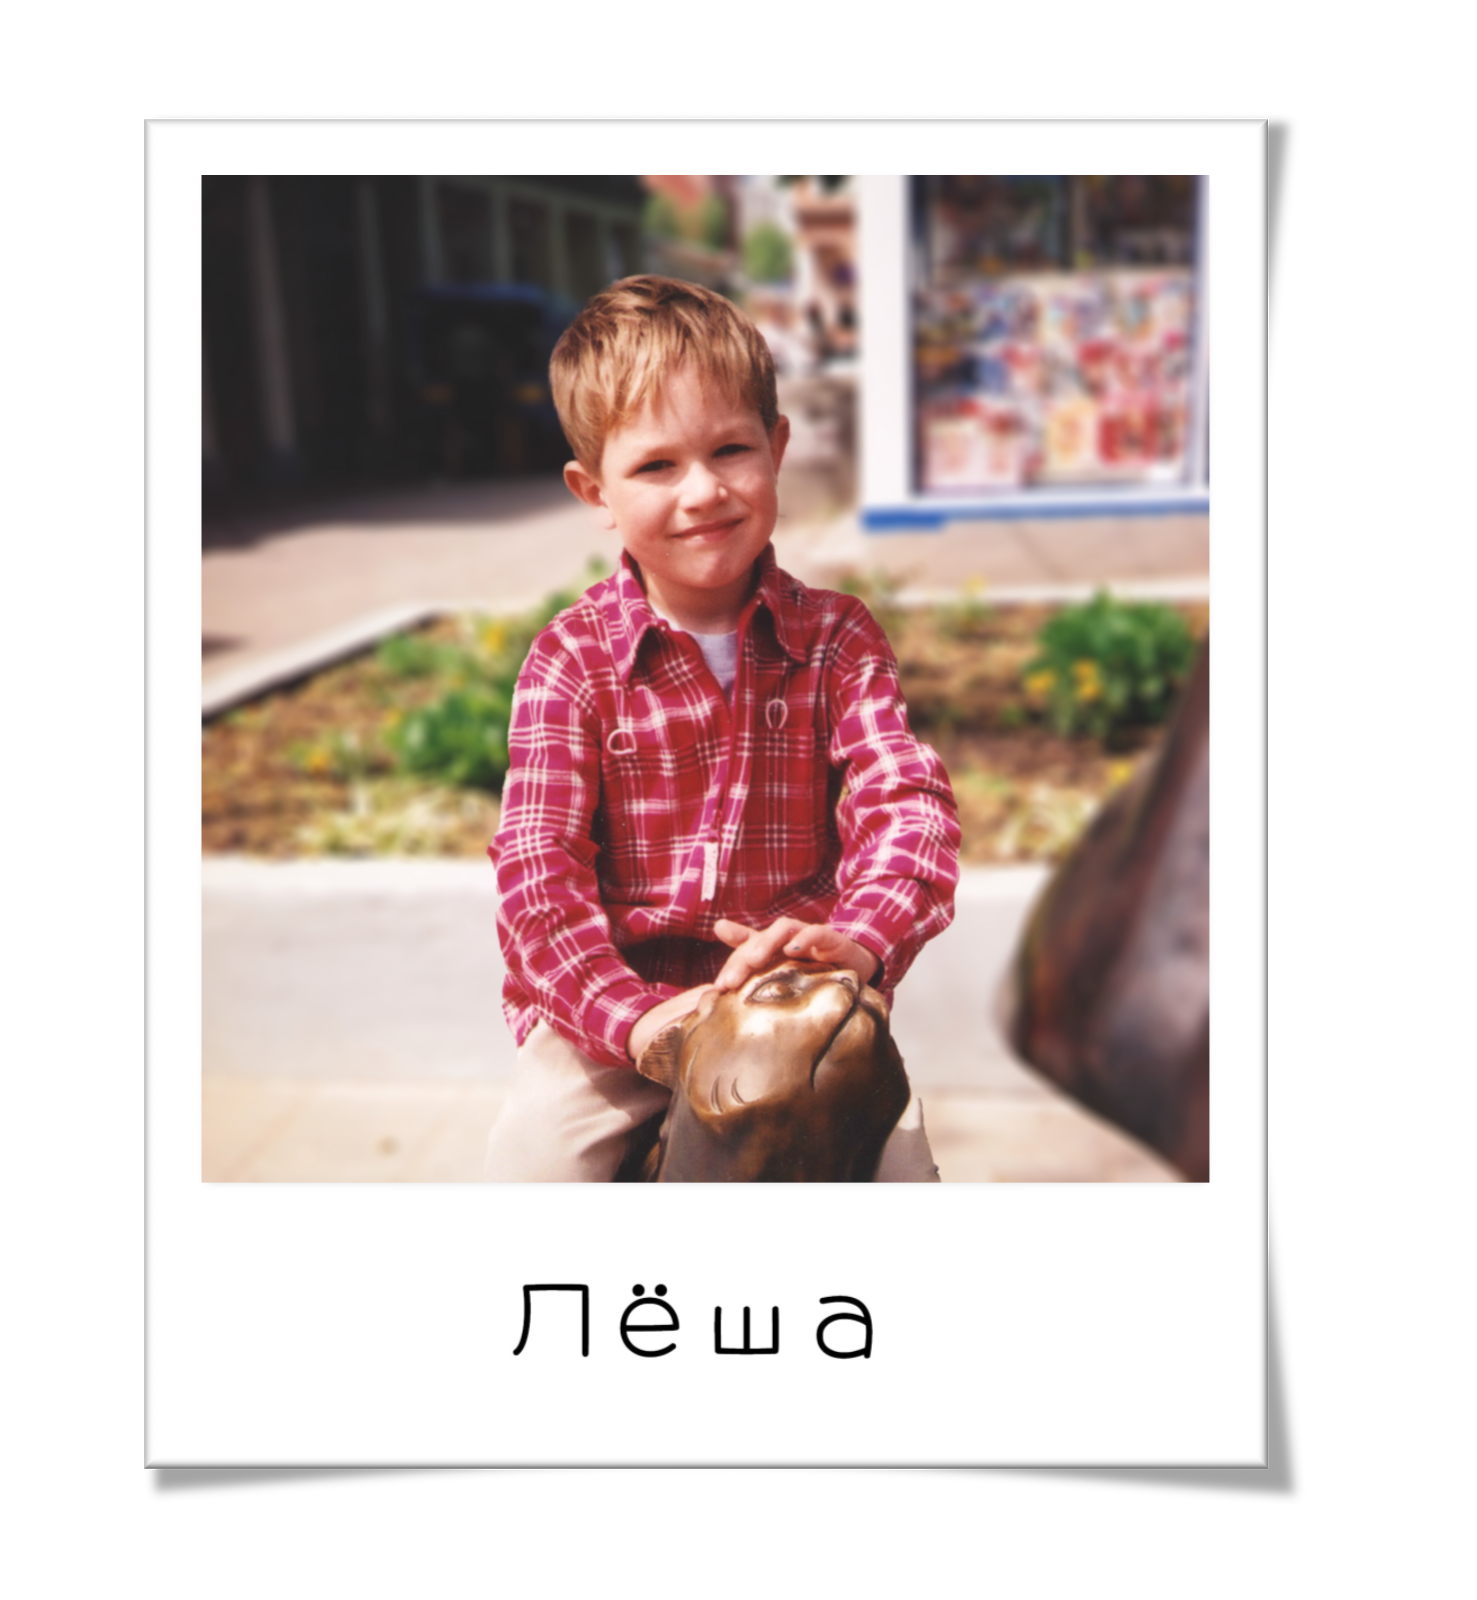
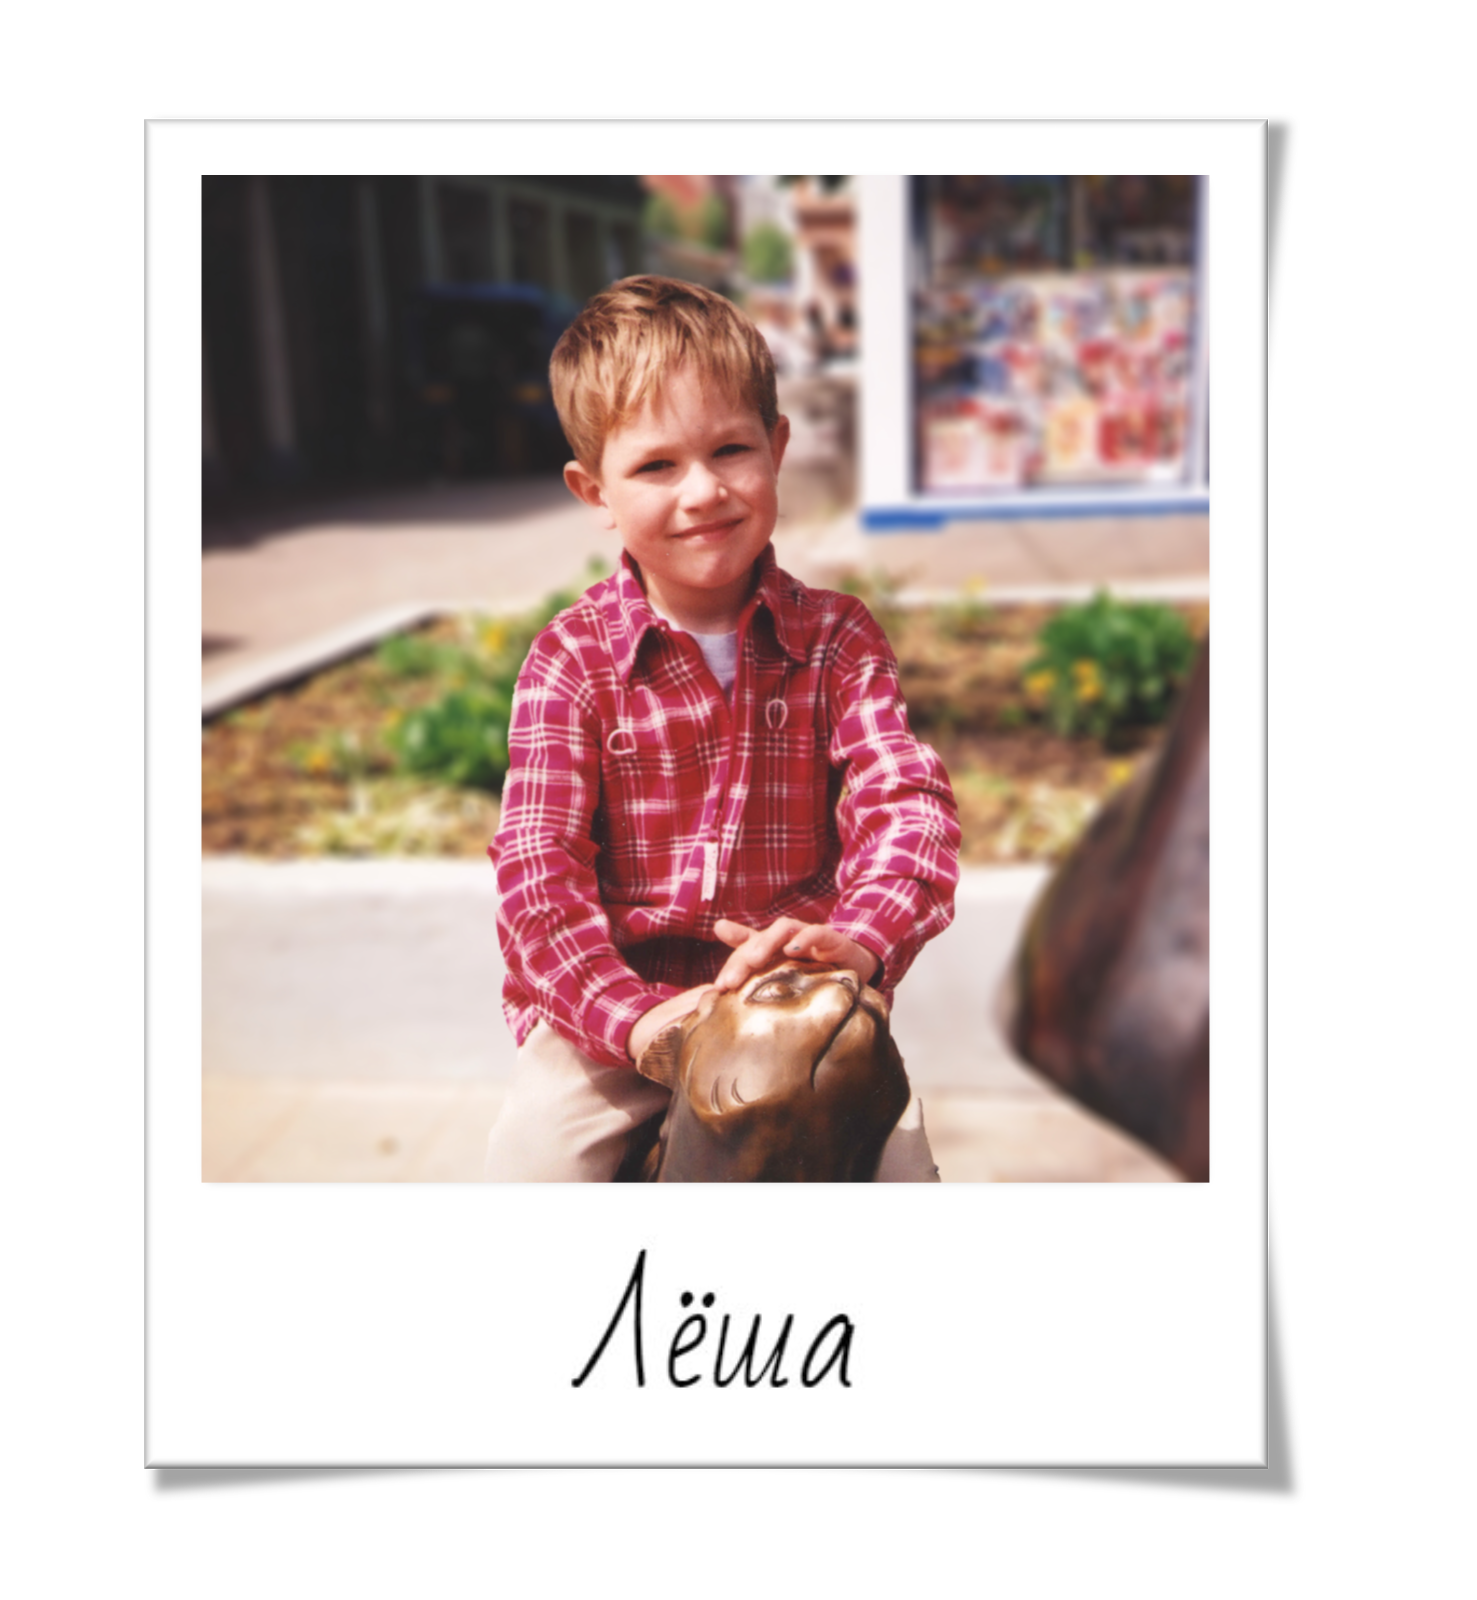
all the photos changed to another font

Changed region(s): [[0.3426, 0.7812, 0.5917, 0.875]]

diff --git a/templates/main.html b/templates/main.html
@@ -146,6 +146,13 @@
     </div>
 
 <!--    <div class="bad-script-regular" style="line-height: 1.1;">-->
+<!--        <p>Веран'DA'</p>-->
+<!--        </br>-->
+<!--        <p>Лёша</p>-->
+<!--        </br>-->
+<!--        <p>Аня</p>-->
+<!--        </br>-->
+<!--        <p>♡</p>-->
 <!--        <p>30.09.2024</p>-->
 <!--        <p>Москва</p>-->
 <!--        </br>-->
